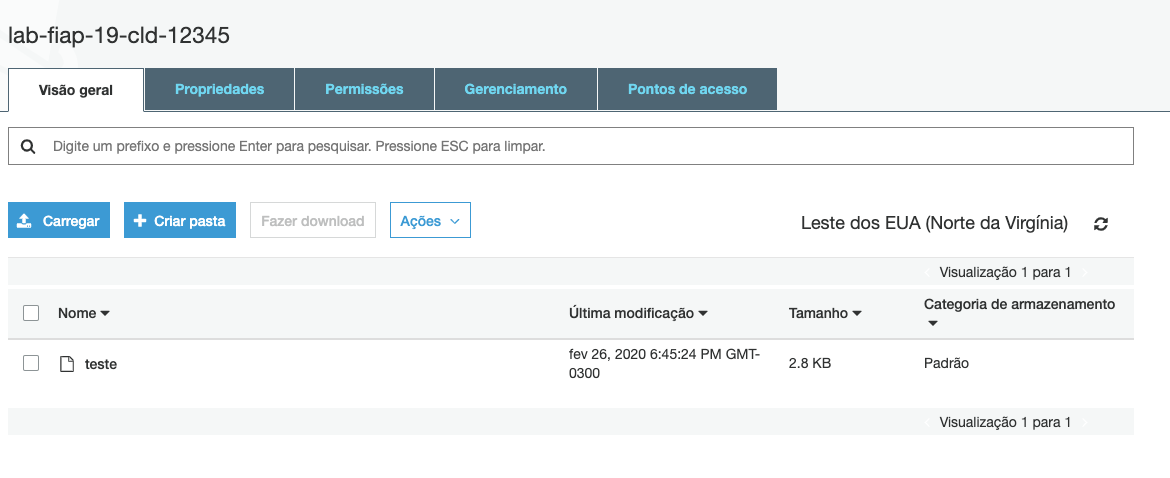
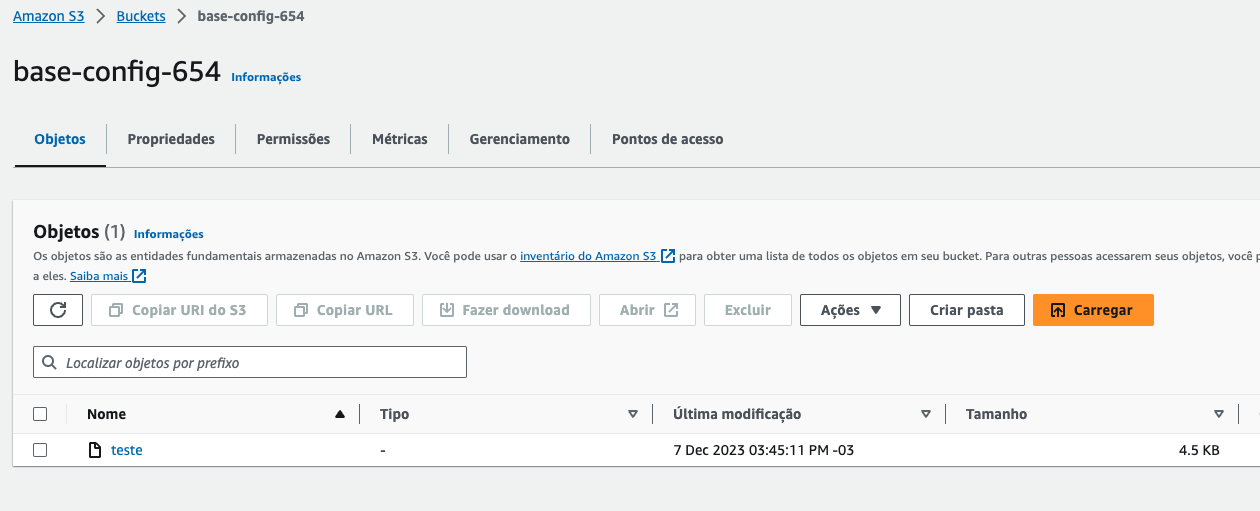
terraform demos State

diff --git a/02-Terraform/demos/04-State/README.md b/02-Terraform/demos/04-State/README.md
@@ -1,7 +1,13 @@
 1. Execute o comando `cd ~/environment/FIAP-CICD-DevSecOps/02-Terraform/demos/04-State/` para entrar na pasta do exercicío.'
-2. Vamos utilizar o bucket criado na configuração inicial para guardar o estado remoto.
+2. Vamos utilizar o bucket criado na configuração inicial para guardar o estado remoto. Caso não se lembre o nome utilize o comando `aws s3 ls` para poder copiar o nome.
+
+    ![](images/s3nome.png)
+
 3. Entre na pasta 'test' com o comando `cd test`
-4.  Utilize o comando `c9 open state.tf` para abrir o arquivo responsavel por configurar o estado remoto e adicione o nome do bucket criado na configuração.
+4.  Utilize o comando `c9 open state.tf` para abrir o arquivo responsavel por configurar o estado remoto e adicione o nome do seu bucket S3 na linha 3.
+   
+   ![](images/state.png)
+
 5.  Utilize o comando `terraform init` para sincronizar com o estado remoto
 6.  Execute o comando `terraform apply -auto-approve`
 7.  Se for agora no [bucket do S3](https://s3.console.aws.amazon.com/s3/buckets?region=us-east-1) que criou para o exercicio você poderá ver que foi criado um arquivo com o nome teste. Nele constam todas as indormações de tudo que o terraform executou dentro da pasta test. Verifique baixando o arquivo e lendo.
